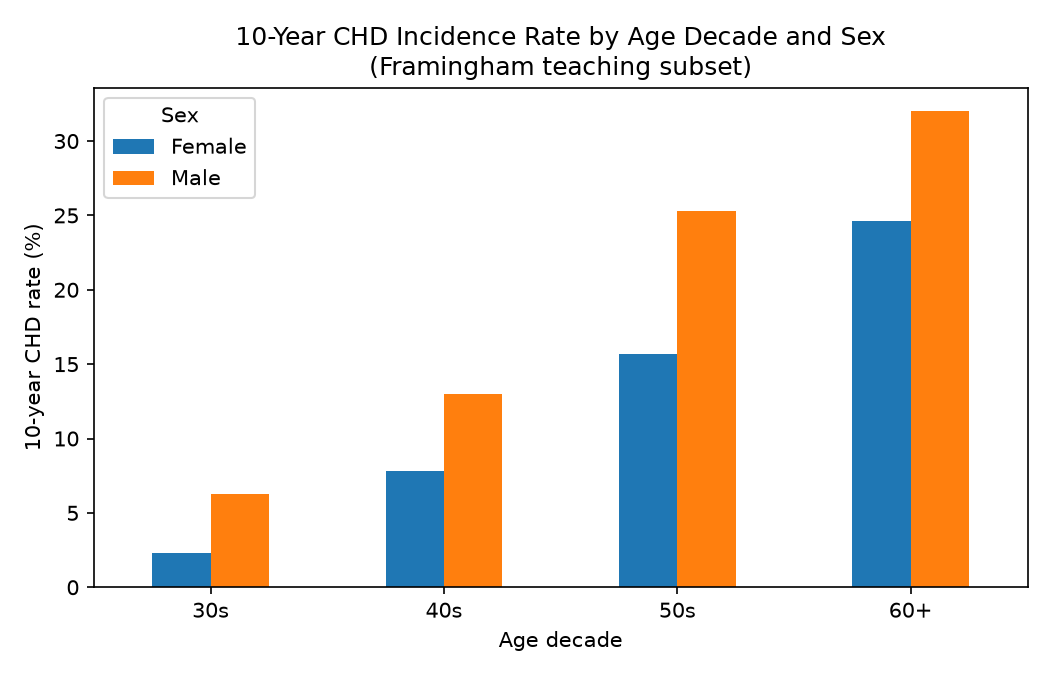
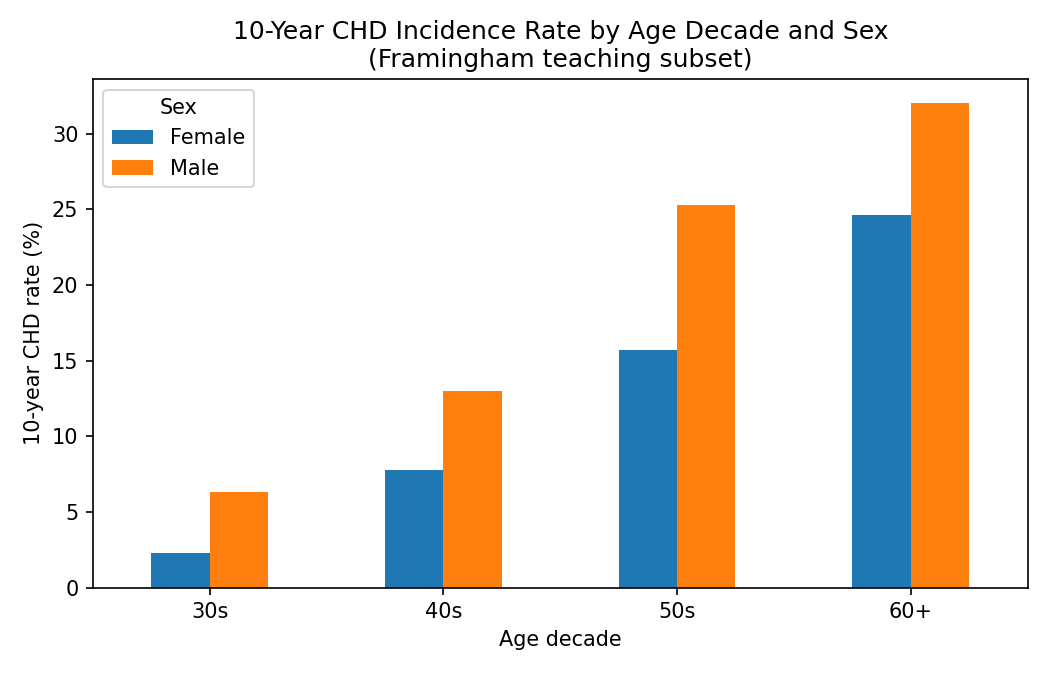
Re-run notebook on local machine to confirm reproducibility

diff --git a/lab2-analysis-notebook/notebook/framingham_analysis.html b/lab2-analysis-notebook/notebook/framingham_analysis.html
@@ -7853,6 +7853,13 @@ and is systolic blood pressure associated with CHD risk within that pattern?</p>
 <div class="jp-OutputArea jp-Cell-outputArea">
 <div class="jp-OutputArea-child">
 <div class="jp-OutputPrompt jp-OutputArea-prompt"></div>
+<div class="jp-RenderedText jp-OutputArea-output" data-mime-type="application/vnd.jupyter.stderr" tabindex="0">
+<pre>Matplotlib is building the font cache; this may take a moment.
+</pre>
+</div>
+</div>
+<div class="jp-OutputArea-child">
+<div class="jp-OutputPrompt jp-OutputArea-prompt"></div>
 <div class="jp-RenderedText jp-OutputArea-output" data-mime-type="text/plain" tabindex="0">
 <pre>(4240, 16)
 </pre>
@@ -8262,7 +8269,7 @@ age-decade x sex group. Rates let us compare groups of very different sizes.</p>
 <div class="jp-OutputArea-child">
 <div class="jp-OutputPrompt jp-OutputArea-prompt"></div>
 <div class="jp-RenderedImage jp-OutputArea-output" tabindex="0">
[2 lines of base64/hex data omitted]
 </div>
 </div>
 </div>
